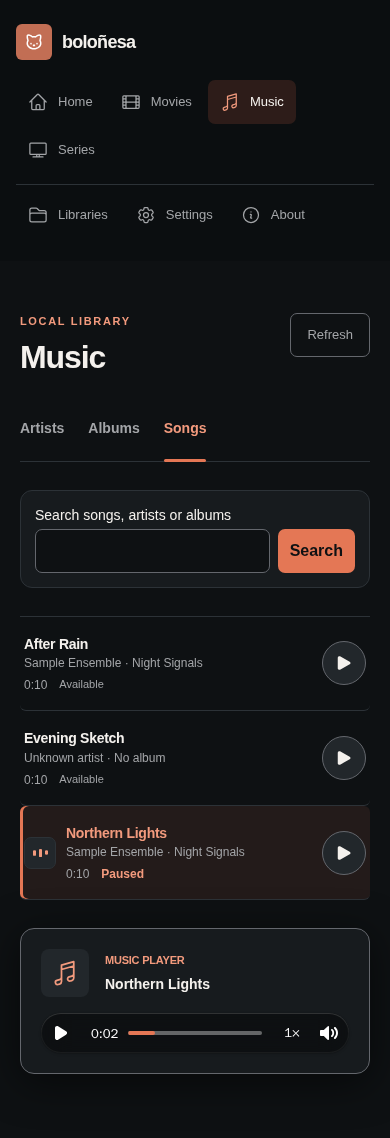
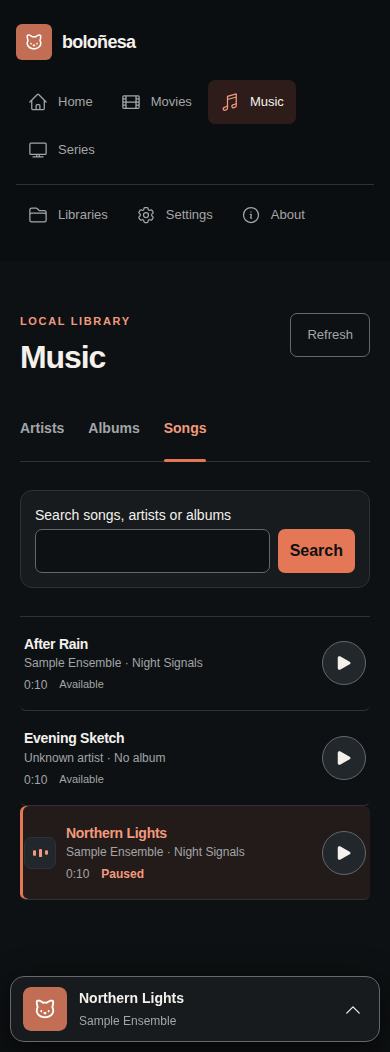
Add compact mobile music player

diff --git a/assets/css/music.css b/assets/css/music.css
@@ -42,11 +42,13 @@
 .music-feedback button { margin-top: 16px; }
 .music-playback { position: static; bottom: 16px; z-index: 10; display: grid; grid-template-columns: 48px minmax(0, 1fr); align-items: center; gap: 16px; padding: 20px; border: 1px solid var(--color-border-strong); border-radius: 14px; background: var(--color-surface); box-shadow: 0 8px 40px #0008; }
 .music-player-art { display: grid; place-items: center; width: 48px; height: 48px; border-radius: 8px; background: var(--color-raised); color: var(--color-accent-soft); }
+.music-player-art img { width: 100%; height: 100%; object-fit: cover; border-radius: inherit; }
 .music-player-copy { min-width: 0; }
 .music-player-copy > p { margin-top: 6px; font-weight: 600; font-size: 14px; }
 .music-player-frame { grid-column: 1 / -1; width: 100%; min-width: 0; color-scheme: dark; }
 .music-queue-controls { grid-column: 1 / -1; }
 .music-playback > p { grid-column: 1 / -1; }
+.music-mini-player, .music-player-close { display: none; }
 .music-library [hidden] { display: none; }
 @media (min-width: 640px) {
   .music-playback { position: sticky; }
@@ -70,6 +72,44 @@
   .music-album-heading { grid-template-columns: 1fr; padding: 20px; }
   .music-detail-art { width: 100px; grid-row: auto; }
 }
+@media (max-width: 639px) {
+  .music-library { padding-bottom: 88px; }
+  .music-mini-player { display: none; }
+  .music-playback[data-expanded="false"][data-has-player="true"] {
+    position: fixed; inset-inline: 10px; bottom: max(10px, env(safe-area-inset-bottom)); z-index: 50;
+    display: block; padding: 0; overflow: hidden; border: 1px solid var(--color-border-strong);
+    border-radius: 14px; background: var(--color-surface); box-shadow: 0 8px 32px #000b;
+  }
+  .music-playback[data-expanded="false"][data-has-player="true"] > :not(.music-mini-player) { display: none; }
+  .music-playback[data-expanded="false"][data-has-player="true"] .music-mini-player {
+    display: grid; grid-template-columns: 44px minmax(0, 1fr) 24px; align-items: center; gap: 12px;
+    width: 100%; min-height: 64px; padding: 9px 12px; text-align: start;
+  }
+  .music-mini-player .music-player-art { width: 44px; height: 44px; }
+  .music-mini-copy { display: flex; min-width: 0; flex-direction: column; gap: 3px; }
+  .music-mini-title, .music-mini-artist { overflow: hidden; text-overflow: ellipsis; white-space: nowrap; }
+  .music-mini-title { font-size: 14px; font-weight: 600; }
+  .music-mini-artist { color: var(--color-muted); font-size: 12px; }
+  .music-playback[data-has-player="false"] { position: static; margin: 0; padding: 20px; overflow: visible; }
+}
+/* An open player stays modal if a phone rotates into a wider viewport. */
+.music-playback[data-expanded="true"] {
+  position: fixed; inset: 0; z-index: 100; display: flex; flex-direction: column; justify-content: center;
+  gap: 24px; width: 100%; height: 100vh; height: 100dvh; max-width: none; margin: 0; padding:
+    max(24px, env(safe-area-inset-top)) 24px max(24px, env(safe-area-inset-bottom));
+  overflow-y: auto; border: 0; border-radius: 0; background: var(--color-canvas); box-shadow: none;
+}
+.music-playback[data-expanded="true"] .music-mini-player { display: none; }
+.music-playback[data-expanded="true"] .music-player-close {
+  position: absolute; top: max(12px, env(safe-area-inset-top)); inset-inline-end: 16px;
+  display: grid; place-items: center; width: 48px; height: 48px; border-radius: 50%; color: var(--color-ink);
+}
+.music-playback[data-expanded="true"] > .music-player-art { width: min(72vw, 340px); height: auto; aspect-ratio: 1; align-self: center; border-radius: 12px; }
+.music-playback[data-expanded="true"] .music-player-copy { width: 100%; padding-inline: 4px; }
+.music-playback[data-expanded="true"] .music-player-copy > p { font-size: 20px; }
+.music-playback[data-expanded="true"] .music-player-frame, .music-playback[data-expanded="true"] .music-queue-controls,
+.music-playback[data-expanded="true"] > p { width: 100%; }
+.music-playback[data-expanded="true"] .music-queue-controls { justify-content: center; }
 @media (prefers-reduced-motion: reduce) { .music-group-card { transition: none; } }
 
 .music-player-frame media-i18n, .music-player-frame audio-player { display: contents; }

diff --git a/assets/js/hooks/audio_player.js b/assets/js/hooks/audio_player.js
@@ -2,10 +2,65 @@ import "../../vendor/videojs.min.mjs"
 import AudioError from "./audio_error"
 import {connectTrackRows} from "./audio_track_list"
 
+function setExpanded(hook, expanded) {
+  if (!hook.playback) return
+  const changed = hook.modalActive !== expanded
+  hook.playerExpanded = expanded
+  hook.playback.dataset.expanded = String(expanded)
+  hook.playback.querySelector('[data-player-action="expand"]')?.setAttribute("aria-expanded", String(expanded))
+  if (expanded) {
+    hook.playback.setAttribute("role", "dialog")
+    hook.playback.setAttribute("aria-modal", "true")
+    if (!hook.modalActive) {
+      hook.backgroundInertState = []
+      let branch = hook.playback
+      while (branch.parentElement) {
+        const parent = branch.parentElement
+        for (const element of parent.children) {
+          if (element !== branch) hook.backgroundInertState.push([element, element.inert])
+        }
+        if (parent === document.body) break
+        branch = parent
+      }
+    }
+    hook.backgroundInertState.forEach(([element]) => { element.inert = true })
+    if (changed) hook.playback.querySelector('[data-player-action="collapse"]')?.focus()
+    hook.modalActive = true
+  } else {
+    hook.playback.setAttribute("role", "region")
+    hook.playback.removeAttribute("aria-modal")
+    if (hook.modalActive) {
+      hook.backgroundInertState?.forEach(([element, wasInert]) => { element.inert = wasInert })
+      hook.backgroundInertState = null
+      hook.playback.querySelector('[data-player-action="expand"]')?.focus()
+    }
+    hook.modalActive = false
+  }
+}
+
 // LiveView owns the frame's data; Video.js owns its children and controls.
 export default {
   mounted() {
     this.audio = this.el.querySelector("audio")
+    this.playback = this.el
+    this.onPresentationClick = event => {
+      const action = event.target.closest?.("[data-player-action]")?.dataset.playerAction
+      if (!action || !this.playback) return
+      setExpanded(this, action === "expand")
+    }
+    this.onPresentationKeydown = event => {
+      if (event.key === "Escape" && this.playback?.dataset.expanded === "true") {
+        setExpanded(this, false)
+      }
+    }
+    this.onPresentationFocusin = event => {
+      if (this.playback?.dataset.expanded === "true" && !this.playback.contains(event.target)) {
+        this.playback.querySelector('[data-player-action="collapse"]')?.focus()
+      }
+    }
+    this.playback?.addEventListener("click", this.onPresentationClick)
+    document.addEventListener("keydown", this.onPresentationKeydown)
+    document.addEventListener("focusin", this.onPresentationFocusin)
     const player = document.createElement("audio-player")
     const skin = document.createElement("audio-skin")
     this.audio.replaceWith(player)
@@ -28,10 +83,15 @@ export default {
   },
   updated() {
     this.sync()
+    setExpanded(this, this.playerExpanded === true)
     AudioError.updated.call(this.context)
     this.trackRows.sync()
   },
   destroyed() {
+    this.playback?.removeEventListener("click", this.onPresentationClick)
+    document.removeEventListener("keydown", this.onPresentationKeydown)
+    document.removeEventListener("focusin", this.onPresentationFocusin)
+    this.backgroundInertState?.forEach(([element, wasInert]) => { element.inert = wasInert })
     this.trackRows.destroy()
     AudioError.destroyed.call(this.context)
     this.audio.pause()
